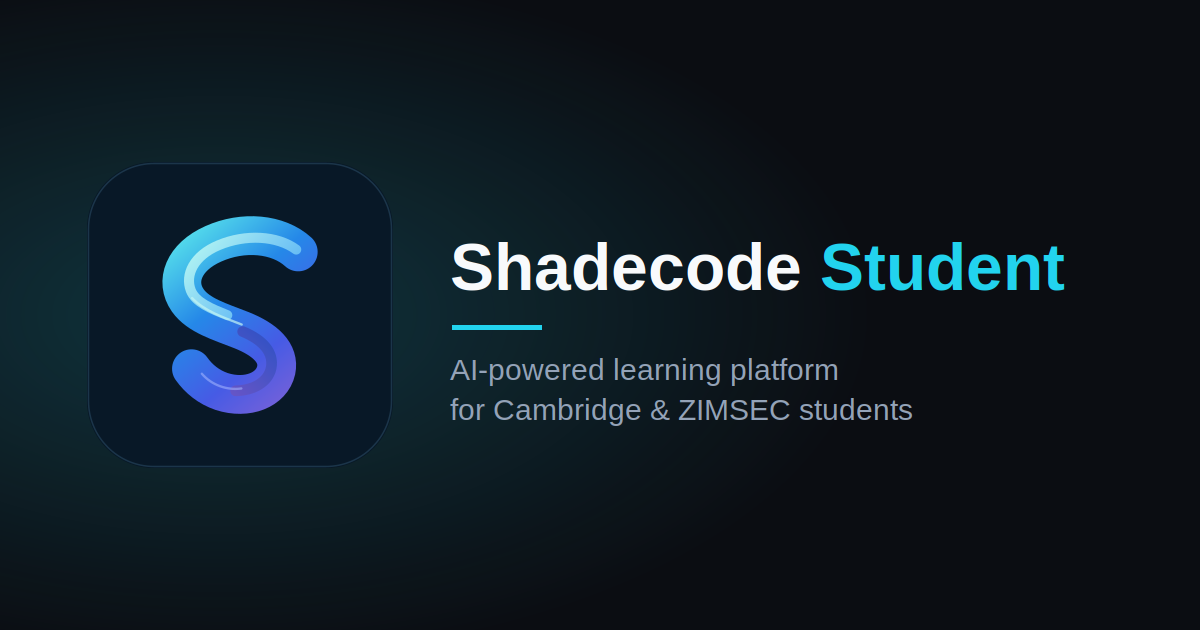
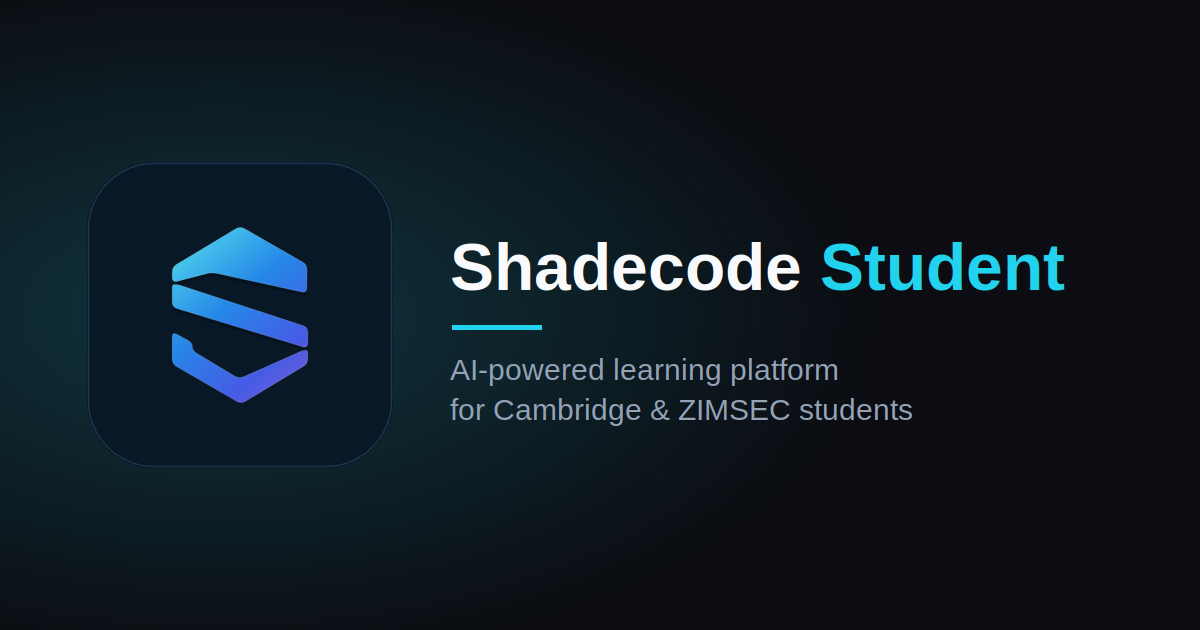
fix(brand): restore the original layered mark with softened corners
The previous brand commit replaced the original three-layer mark with a curvy
folded S. The brief was only to soften the sharp edges and make the pieces
look layered, keeping the original identity.

- markGeometry.json now holds the ORIGINAL three-layer polygons, corners rounded
  in place (radius 16 in the 600 space; gaps between layers preserved)
- Layers get a soft cast shadow and a faint edge line so they read as stacked
- BrandMark, OgBrandMark and all generated SVG/PNG assets regenerate from it
- Tests now reject the curvy-S ribbon and the unrounded sharp polygon
- Docs updated; og-image tile re-composited

Changed region(s): [[0.1233, 0.3317, 0.2775, 0.6635]]

diff --git a/src/lib/brand/markGeometry.ts b/src/lib/brand/markGeometry.ts
@@ -1,29 +1,42 @@
 import geometry from "./markGeometry.json";
 
 /**
- * Canonical Shadecode "folded S" mark. This JSON is the single source of truth:
- * the React marks, share-card marks and every generated SVG/PNG icon read from it
- * (see scripts/generate-brand-assets.mjs). Never hand-edit generated icon files.
+ * Canonical Shadecode mark: the ORIGINAL three-layer geometry with softened corners.
+ * This JSON is the single source of truth. The React marks, share-card marks and every generated
+ * SVG/PNG icon read from it (see scripts/generate-brand-assets.mjs). Never hand-edit generated icons.
  */
-export type MarkStroke = {
-  role: "ribbon" | "fold" | "underfold" | "sheen";
-  width: number;
-  d: string;
-  gradient?: string;
-  color?: string;
-  opacity?: number;
-};
+export type MarkLayer = { role: "top" | "middle" | "bottom"; d: string; source: string };
 export type MarkGradient = { id: string; x1: number; y1: number; x2: number; y2: number; stops: ReadonlyArray<readonly [number, string]> };
+export type MarkDepth = { shadowDy: number; shadowColor: string; shadowOpacity: number; edgeColor: string; edgeOpacity: number; edgeWidth: number };
 
-/** Square crop around the glyph (with breathing room) for inline use at any size. */
+/** Square crop around the glyph (with room for the layer shadows) for inline use at any size. */
 export const MARK_VIEWBOX = geometry.inlineViewBox;
 export const MARK_GRADIENTS = geometry.gradients as unknown as MarkGradient[];
-export const MARK_STROKES = geometry.strokes as unknown as MarkStroke[];
-export const MARK_PATHS: string[] = MARK_STROKES.map((s) => s.d);
-export const MARK_RIBBON = MARK_STROKES[0];
+export const MARK_GRADIENT_ID = MARK_GRADIENTS[0].id;
+export const MARK_LAYERS = geometry.layers as unknown as MarkLayer[]; // top, middle, bottom
+export const MARK_PATHS: string[] = MARK_LAYERS.map((l) => l.d);
+export const MARK_DEPTH = geometry.depth as MarkDepth;
 export const MARK_COLORS: string[] = [
   ...MARK_GRADIENTS.flatMap((g) => g.stops.map(([, color]) => color)),
-  ...MARK_STROKES.flatMap((s) => (s.color ? [s.color] : [])),
+  MARK_DEPTH.shadowColor,
+  MARK_DEPTH.edgeColor,
 ];
 export const MARK_TILES = geometry.tile;
 export const MARK_CENTER = geometry.glyphCenter;
+
+export type MarkDrawItem = { key: string; kind: "layer" | "shadow"; d: string };
+
+/**
+ * Back-to-front draw order. Each upper layer first casts a soft shadow onto the layers beneath it,
+ * so the three pieces read as stacked sheets rather than flat shapes.
+ */
+export function markDrawOrder(): MarkDrawItem[] {
+  const [top, middle, bottom] = MARK_LAYERS;
+  return [
+    { key: "bottom", kind: "layer", d: bottom.d },
+    { key: "middle-shadow", kind: "shadow", d: middle.d },
+    { key: "middle", kind: "layer", d: middle.d },
+    { key: "top-shadow", kind: "shadow", d: top.d },
+    { key: "top", kind: "layer", d: top.d },
+  ];
+}

diff --git a/src/lib/brand/markGeometry.test.ts b/src/lib/brand/markGeometry.test.ts
@@ -1,7 +1,7 @@
 import { existsSync, readFileSync, readdirSync } from "node:fs";
 import path from "node:path";
 import { describe, expect, it } from "vitest";
-import { MARK_COLORS, MARK_PATHS, MARK_RIBBON } from "./markGeometry";
+import { MARK_COLORS, MARK_PATHS } from "./markGeometry";
 
 const root = process.cwd();
 const read = (rel: string) => readFileSync(path.join(root, rel), "utf8");
@@ -22,8 +22,8 @@ const fullMarkSvgs = [
 ];
 const flatMarkSvgs = ["public/brand/shadecode-mark-white.svg", "public/brand/shadecode-mark-reversed.svg"];
 
-/** First path of the retired angular three-band mark. It must never come back. */
-const LEGACY_MARK_PATH = "M72.5 146.5 275.5 24.5";
+/** Retired variants that must never ship: the curvy "folded S" ribbon, and the unrounded sharp-corner polygon. */
+const RETIRED_MARK_PATHS = ["M680 340 C620 285", "M72.5 146.5 275.5 24.5"];
 
 describe("brand mark has a single canonical geometry", () => {
   for (const file of fullMarkSvgs) {
@@ -34,8 +34,9 @@ describe("brand mark has a single canonical geometry", () => {
     });
   }
   for (const file of flatMarkSvgs) {
-    it(`${file} uses the canonical ribbon`, () => {
-      expect(read(file)).toContain(MARK_RIBBON.d);
+    it(`${file} uses all three canonical layers`, () => {
+      const text = read(file);
+      for (const d of MARK_PATHS) expect(text).toContain(d);
     });
   }
   it("React brand mark renders from the shared geometry, not private paths", () => {
@@ -43,14 +44,14 @@ describe("brand mark has a single canonical geometry", () => {
     expect(text).toContain("@/lib/brand/markGeometry");
     expect(text).not.toContain('d="M');
   });
-  it("no source, public asset or doc-linked file still ships the retired angular mark", () => {
+  it("no source or public asset ships a retired mark variant", () => {
     const dirs = ["src", "public/brand", "public/icons"];
     const walk = (dir: string): string[] =>
       readdirSync(path.join(root, dir), { withFileTypes: true }).flatMap((e) => {
         const rel = path.posix.join(dir, e.name);
         return e.isDirectory() ? walk(rel) : /\.(svg|tsx?|css)$/.test(e.name) ? [rel] : [];
       });
-    const offenders = [...dirs.flatMap(walk), "public/favicon.svg"].filter((f) => read(f).includes(LEGACY_MARK_PATH) && !f.endsWith("markGeometry.test.ts"));
+    const offenders = [...dirs.flatMap(walk), "public/favicon.svg"].filter((f) => RETIRED_MARK_PATHS.some((r) => read(f).includes(r)) && !f.endsWith("markGeometry.test.ts"));
     expect(offenders).toEqual([]);
   });
 });

diff --git a/src/lib/og/OgBrandMark.tsx b/src/lib/og/OgBrandMark.tsx
@@ -1,36 +1,34 @@
-import { MARK_GRADIENTS, MARK_STROKES, MARK_VIEWBOX } from "@/lib/brand/markGeometry";
+import { MARK_DEPTH, MARK_GRADIENTS, MARK_LAYERS, MARK_VIEWBOX, markDrawOrder } from "@/lib/brand/markGeometry";
 
 /**
  * Official Shadecode mark for generated share-card images (inline SVG, so no font or network needed).
- * Pass `color` for a flat single-colour mark (ribbon only); omit it for the full brand mark.
+ * Pass `color` for a flat single-colour mark; omit it for the full layered brand mark.
  */
 export function OgBrandMark({ size, color }: { size: number; color?: string }) {
-  const strokes = color ? MARK_STROKES.filter((s) => s.role === "ribbon") : MARK_STROKES;
+  const g = MARK_GRADIENTS[0];
+  const gradientId = `shadecode-og-${g.id}`;
   return (
     <svg width={size} height={size} viewBox={MARK_VIEWBOX} xmlns="http://www.w3.org/2000/svg">
-      {color ? null : (
-        <defs>
-          {MARK_GRADIENTS.map((g) => (
-            <linearGradient key={g.id} id={`shadecode-og-${g.id}`} x1={g.x1} y1={g.y1} x2={g.x2} y2={g.y2} gradientUnits="userSpaceOnUse">
+      {color ? (
+        MARK_LAYERS.map((l) => <path key={l.role} d={l.d} fill={color} />)
+      ) : (
+        <>
+          <defs>
+            <linearGradient id={gradientId} x1={g.x1} y1={g.y1} x2={g.x2} y2={g.y2} gradientUnits="userSpaceOnUse">
               {g.stops.map(([offset, stopColor]) => (
                 <stop key={offset} offset={offset} stopColor={stopColor} />
               ))}
             </linearGradient>
-          ))}
-        </defs>
+          </defs>
+          {markDrawOrder().map((item) =>
+            item.kind === "shadow" ? (
+              <path key={item.key} d={item.d} fill={MARK_DEPTH.shadowColor} fillOpacity={MARK_DEPTH.shadowOpacity} transform={`translate(0 ${MARK_DEPTH.shadowDy})`} />
+            ) : (
+              <path key={item.key} d={item.d} fill={`url(#${gradientId})`} stroke={MARK_DEPTH.edgeColor} strokeOpacity={MARK_DEPTH.edgeOpacity} strokeWidth={MARK_DEPTH.edgeWidth} strokeLinejoin="round" />
+            ),
+          )}
+        </>
       )}
-      {strokes.map((s) => (
-        <path
-          key={s.d}
-          d={s.d}
-          fill="none"
-          stroke={color ?? (s.gradient ? `url(#shadecode-og-${s.gradient})` : s.color)}
-          strokeOpacity={color ? undefined : s.opacity}
-          strokeWidth={s.width}
-          strokeLinecap="round"
-          strokeLinejoin="round"
-        />
-      ))}
     </svg>
   );
 }

diff --git a/src/components/brand/BrandMark.tsx b/src/components/brand/BrandMark.tsx
@@ -1,14 +1,13 @@
 import { useId, type SVGProps } from "react";
-import { MARK_GRADIENTS, MARK_STROKES, MARK_VIEWBOX } from "@/lib/brand/markGeometry";
+import { MARK_DEPTH, MARK_GRADIENTS, MARK_VIEWBOX, markDrawOrder } from "@/lib/brand/markGeometry";
 
 export type BrandMarkProps = SVGProps<SVGSVGElement> & { title?: string };
 
-/** Shadecode folded-S mark. Geometry comes from `@/lib/brand/markGeometry` (single source of truth). */
+/** Shadecode layered mark. Geometry comes from `@/lib/brand/markGeometry` (single source of truth). */
 export function BrandMark({ title = "Shadecode Student", className, ...props }: BrandMarkProps) {
   // Each instance needs its own SVG paint-server IDs: shared hard-coded IDs can resolve
   // to a different SVG instance on pages that render several marks.
   const base = `shadecode-mark-${useId().replace(/:/g, "")}`;
-  const ref = (id: string) => `url(#${base}-${id})`;
   return (
     <svg
       viewBox={MARK_VIEWBOX}
@@ -30,18 +29,21 @@ export function BrandMark({ title = "Shadecode Student", className, ...props }: 
           </linearGradient>
         ))}
       </defs>
-      {MARK_STROKES.map((s) => (
-        <path
-          key={s.d}
-          d={s.d}
-          fill="none"
-          stroke={s.gradient ? ref(s.gradient) : s.color}
-          strokeOpacity={s.opacity}
-          strokeWidth={s.width}
-          strokeLinecap="round"
-          strokeLinejoin="round"
-        />
-      ))}
+      {markDrawOrder().map((item) =>
+        item.kind === "shadow" ? (
+          <path key={item.key} d={item.d} fill={MARK_DEPTH.shadowColor} fillOpacity={MARK_DEPTH.shadowOpacity} transform={`translate(0 ${MARK_DEPTH.shadowDy})`} />
+        ) : (
+          <path
+            key={item.key}
+            d={item.d}
+            fill={`url(#${base}-${MARK_GRADIENTS[0].id})`}
+            stroke={MARK_DEPTH.edgeColor}
+            strokeOpacity={MARK_DEPTH.edgeOpacity}
+            strokeWidth={MARK_DEPTH.edgeWidth}
+            strokeLinejoin="round"
+          />
+        ),
+      )}
     </svg>
   );
 }

diff --git a/docs/BRAND_SYSTEM.md b/docs/BRAND_SYSTEM.md
@@ -1,10 +1,10 @@
 # Shadecode Student Brand System
 
-This document describes the current Shadecode Student identity: the smooth folded-S mark.
+This document describes the current Shadecode Student identity: the original layered mark with softened corners.
 
 ## Core identity
 
-- **Symbol:** a smooth folded S: one continuous ribbon with a lighter fold highlight and a deeper under-fold. Direction set by the product owner; it replaces the earlier angular three-band mark.
+- **Symbol:** the original three-layer abstract mark: same silhouette and gradient as before, with every corner softened and a soft shadow so the pieces read as stacked layers. A curvy "folded S" redesign was tried and rejected; do not reintroduce it, and do not return to sharp unrounded corners.
 - **App tile:** deep navy, with a quiet border.
 - **Accent:** cyan-to-blue-to-violet gradient, preserving the product's current colour identity.
 - **Wordmark:** clear SHADECODE / STUDENT lockup. Keep the mark itself free of text.
@@ -37,7 +37,7 @@ Keep semantic UI colours separate from brand colours. Never rely on a gradient a
 - `src/lib/og/OgBrandMark.tsx` — mark for generated share-card images.
 - `public/brand/shadecode-icon-master.svg` — transparent master mark on a 1024 canvas.
 - `public/brand/shadecode-mark.svg` — transparent gradient mark, square crop.
-- `public/brand/shadecode-mark-white.svg` / `shadecode-mark-reversed.svg` — flat single-colour ribbon (white / ink).
+- `public/brand/shadecode-mark-white.svg` / `shadecode-mark-reversed.svg` — flat single-colour mark (white / ink).
 - `public/brand/shadecode-app-icon.svg`, `-dark.svg`, `-light.svg` — rounded icon tiles.
 - `public/brand/shadecode-app-icon-fullbleed.svg` — full-bleed square used for iOS icons.
 - `public/brand/shadecode-app-icon-maskable.svg` — full-bleed adaptive icon with safe area.
@@ -60,7 +60,7 @@ Note: Next.js does not support SVG for `apple-icon`, so there is no `src/app/app
 
 ## Engineering rules
 
-1. The React `BrandMark`, standalone SVGs, app icon, favicon, maskable icon and raster assets must all depict the same folded-S mark. `src/lib/brand/markGeometry.test.ts` enforces this and fails if the retired angular mark reappears.
+1. The React `BrandMark`, standalone SVGs, app icon, favicon, maskable icon and raster assets must all depict the same layered mark. `src/lib/brand/markGeometry.test.ts` enforces this and fails if the retired angular mark reappears.
 2. Change the mark only in `markGeometry.json`, then run `npm run generate:brand` and commit the regenerated assets.
 3. iOS and maskable icons must be opaque, full-bleed squares; keep the glyph inside the maskable safe area.
 4. Do not use a book/pages symbol or another unrelated replacement.
